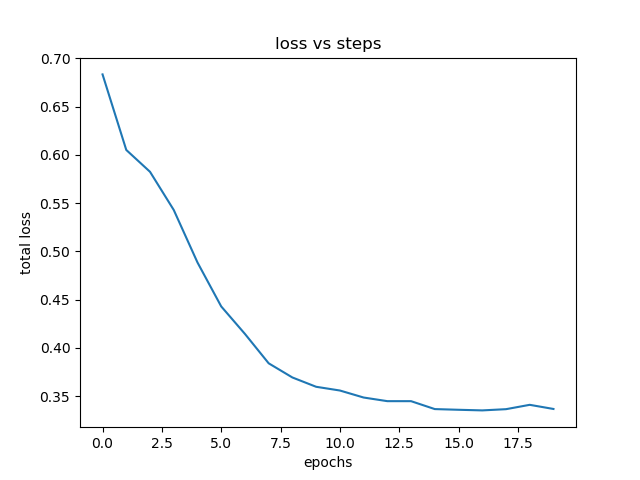
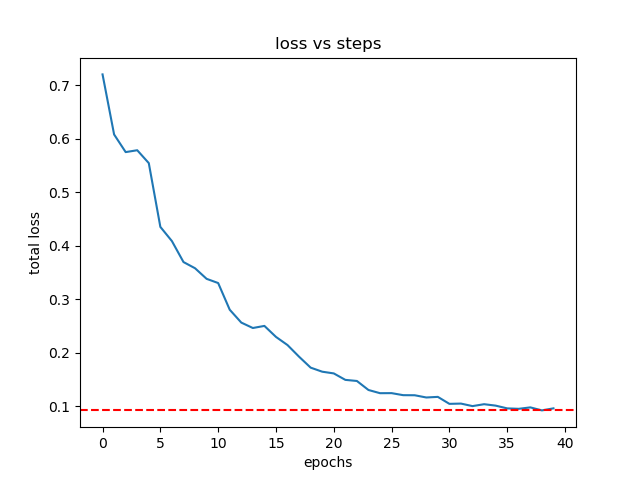
eta is now pretty accurate

diff --git a/trainval_net.py b/trainval_net.py
@@ -51,7 +51,7 @@ def parse_args():
                       default=1, type=int)
   parser.add_argument('--epochs', dest='max_epochs',
                       help='number of epochs to train',
-                      default=20, type=int)
+                      default=30, type=int)
   parser.add_argument('--disp_interval', dest='disp_interval',
                       help='number of iterations to display',
                       default=32, type=int)
@@ -90,7 +90,7 @@ def parse_args():
                       default=1e-2, type=float)
   parser.add_argument('--lr_decay_step', dest='lr_decay_step',
                       help='step to do learning rate decay, unit is epoch',
-                      default=3, type=int)
+                      default=5, type=int)
   parser.add_argument('--lr_decay_gamma', dest='lr_decay_gamma',
                       help='learning rate decay ratio',
                       default=5e-1, type=float)
@@ -157,7 +157,7 @@ if __name__ == '__main__':
   if args.dataset == "pascal_voc":
       args.imdb_name = "voc_2007_trainval"
       args.imdbval_name = "voc_2007_test"
-      args.set_cfgs = ['ANCHOR_SCALES', '[4,8,16,32,48]', 'ANCHOR_RATIOS', '[.5,1,2,3]', 'MAX_NUM_GT_BOXES', '20']
+      args.set_cfgs = ['ANCHOR_SCALES', '[4,8,16,32]', 'ANCHOR_RATIOS', '[.5,1,2,3]', 'MAX_NUM_GT_BOXES', '40']
   elif args.dataset == "pascal_voc_0712":
       args.imdb_name = "voc_2007_trainval+voc_2012_trainval"
       args.imdbval_name = "voc_2007_test"
@@ -379,7 +379,7 @@ if __name__ == '__main__':
             time_left = time_left_epoch + epochs_left * (time_per_step * iters_per_epoch)
             print("eta: {}".format(str(datetime.timedelta(seconds=time_left))))
         else:
-            print("eta: {}".format(str(datetime.timedelta(seconds=((end-start)*iters_per_epoch * (args.max_epochs + 1 - args.start_epoch - epoch))))))
+            print("eta: {}".format(str(datetime.timedelta(seconds=((end-start)*iters_per_epoch * (args.max_epochs + 2 - epoch))))))
         loss_temp = 0
         start = time.time()
     if step >= iters_per_epoch - 1:

diff --git a/lib/model/utils/config.py b/lib/model/utils/config.py
@@ -136,7 +136,7 @@ __C.TRAIN.RPN_CLOBBER_POSITIVES = False
 # Max number of foreground examples
 __C.TRAIN.RPN_FG_FRACTION = 0.9
 # Total number of examples
-__C.TRAIN.RPN_BATCHSIZE = 256
+__C.TRAIN.RPN_BATCHSIZE = 128
 # NMS threshold used on RPN proposals
 __C.TRAIN.RPN_NMS_THRESH = 0.7 #was 0.7
 # Number of top scoring boxes to keep before apply NMS to RPN proposals
@@ -172,7 +172,7 @@ __C.TEST.MAX_SIZE = 1000
 
 # Overlap threshold used for non-maximum suppression (suppress boxes with
 # IoU >= this threshold)
-__C.TEST.NMS = 0.3
+__C.TEST.NMS = 0.125
 
 # Experimental: treat the (K+1) units in the cls_score layer as linear
 # predictors (trained, eg, with one-vs-rest SVMs).
@@ -193,7 +193,7 @@ __C.TEST.RPN_NMS_THRESH = 0.7
 __C.TEST.RPN_PRE_NMS_TOP_N = 6000
 
 ## Number of top scoring boxes to keep after applying NMS to RPN proposals
-__C.TEST.RPN_POST_NMS_TOP_N = 300
+__C.TEST.RPN_POST_NMS_TOP_N = 150
 
 # Proposal height and width both need to be greater than RPN_MIN_SIZE (at orig image scale)
 __C.TEST.RPN_MIN_SIZE = 4 #was 16
@@ -289,7 +289,7 @@ __C.POOLING_SIZE = 7
 __C.MAX_NUM_GT_BOXES = 40 #was 20
 
 # Anchor scales for RPN
-__C.ANCHOR_SCALES = [4,8,16,32,48]
+__C.ANCHOR_SCALES = [4,8,16,32]
 
 # Anchor ratios for RPN
 __C.ANCHOR_RATIOS = [0.5,1,2,3]

diff --git a/test_net.py b/test_net.py
@@ -80,7 +80,7 @@ def parse_args():
                       default=7, type=int)
   parser.add_argument('--checkepoch', dest='checkepoch',
                       help='checkepoch to load network',
-                      default=20, type=int)
+                      default=40, type=int)
   parser.add_argument('--checkpoint', dest='checkpoint',
                       help='checkpoint to load network',
                       default=84, type=int)
@@ -108,7 +108,7 @@ if __name__ == '__main__':
   if args.dataset == "pascal_voc":
       args.imdb_name = "voc_2007_trainval"
       args.imdbval_name = "voc_2007_trainval"
-      args.set_cfgs = ['ANCHOR_SCALES', '[4,8,16,32,48]', 'ANCHOR_RATIOS', '[.5,1,2,3]']
+      args.set_cfgs = ['ANCHOR_SCALES', '[4,8,16,32]', 'ANCHOR_RATIOS', '[.5,1,2,3]']
   elif args.dataset == "pascal_voc_0712":
       args.imdb_name = "voc_2007_trainval+voc_2012_trainval"
       args.imdbval_name = "voc_2007_test"
